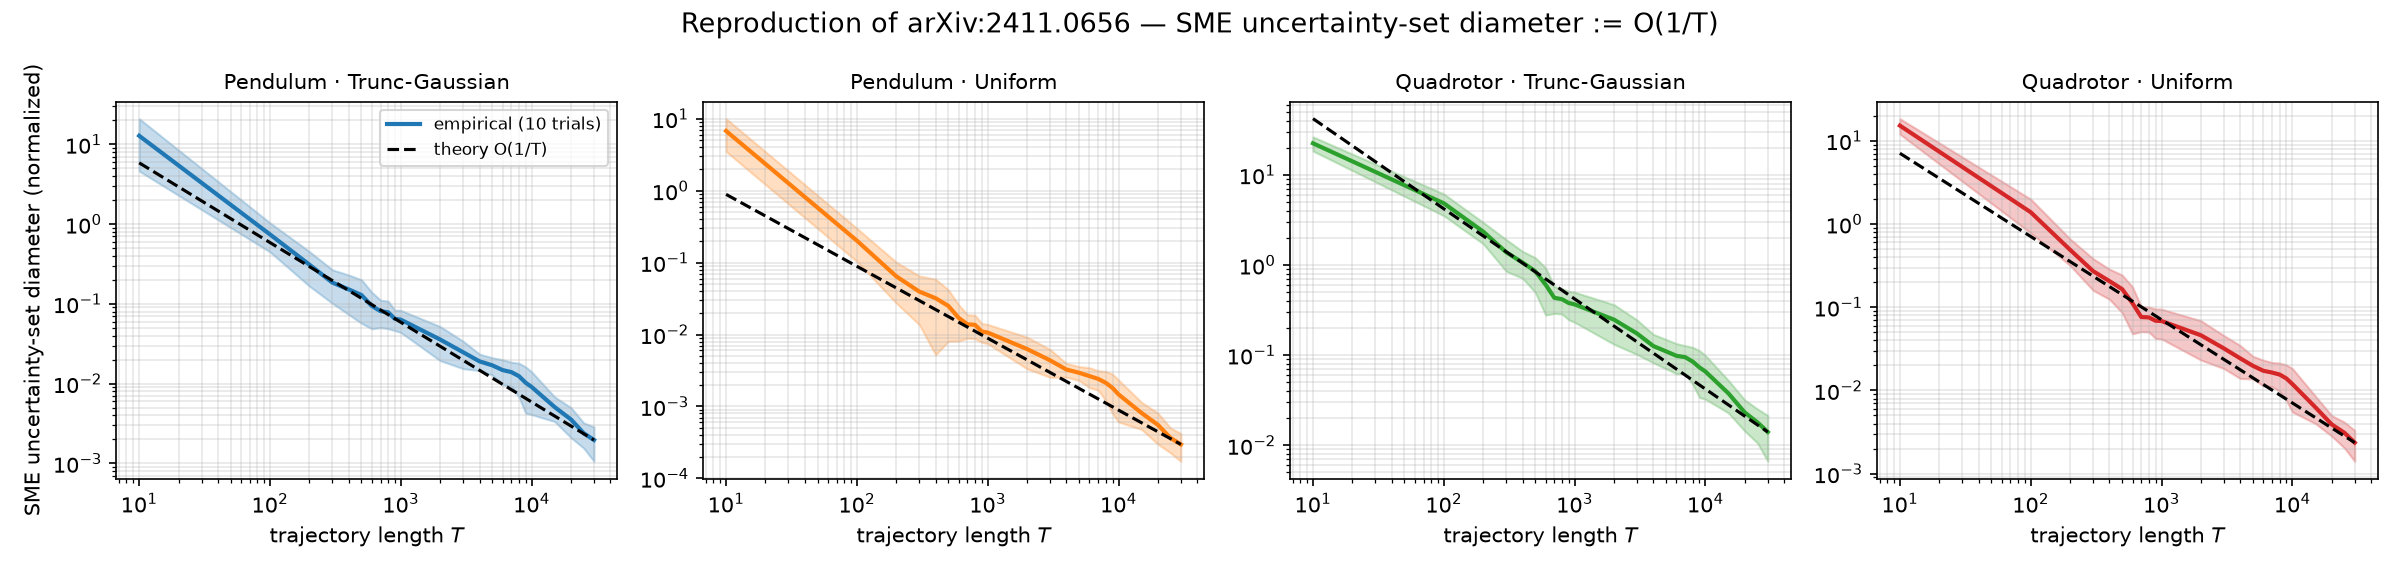
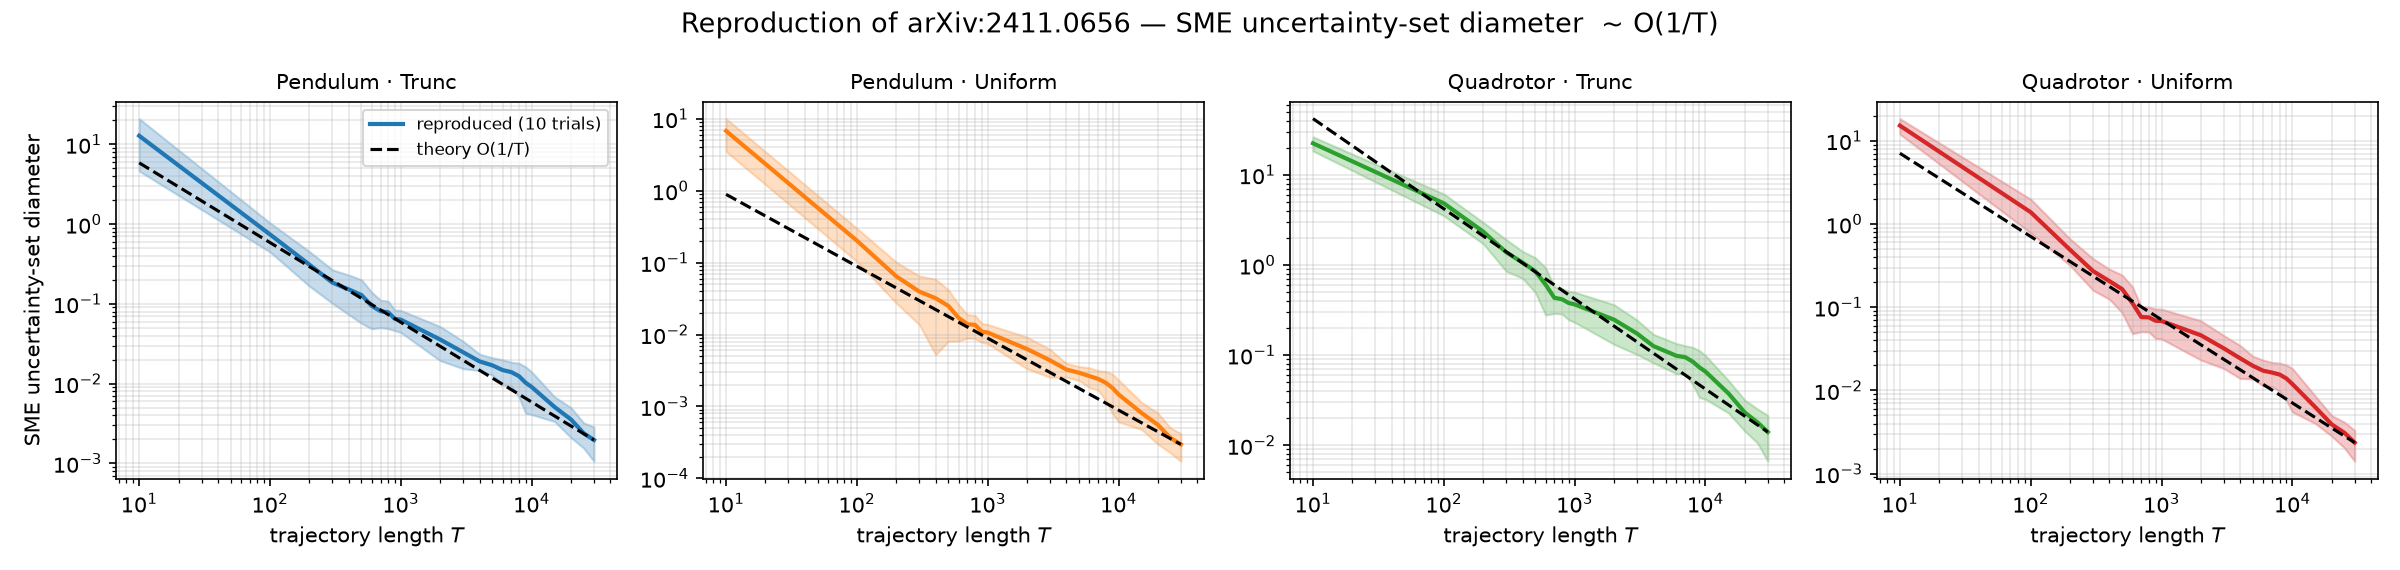
Fix quadrotor theta_star_vec[8] bug; re-run; regrade to C (partial): quadrotor LSE magnitude 7-11x off

diff --git a/notebooks/repro-2411.0656.py b/notebooks/repro-2411.0656.py
@@ -34,6 +34,9 @@ We reproduced these rates on the paper's **pendulum** and **quadrotor**, under
 **uniform** and **truncated-Gaussian** noise. The SME claim reproduces on **all four**
 panels (log–log slope ≈ −1); the LSE claim reproduces on **three** of four (slope ≈ −0.5).
 
+**Grade: C (partial).** Trends/rates mostly match, but the quadrotor LSE magnitudes are 7–11× above
+the paper's published values (and quadrotor SME is ~4× tighter), so this is not a full reproduction.
+
 This notebook shows the **already-computed** evidence from the reproduction runs — no
 experiment needs to be rerun. The curves below are embedded directly from those runs.
         """
@@ -86,8 +89,8 @@ def _(make_plot, np):
     _L = {
         "Pendulum · Uniform": "1,7.362212e-02;500,9.340224e-04;1000,7.364729e-04;2000,5.320309e-04;3000,4.339775e-04;4000,3.810651e-04;5000,3.133709e-04;6000,2.698257e-04;7000,2.518082e-04;8000,2.459812e-04;9000,2.427919e-04;10000,2.416539e-04;20000,1.663099e-04;30000,1.463242e-04;40000,1.174835e-04;50000,9.930984e-05;60000,8.510382e-05;70000,6.938801e-05;80000,6.813793e-05;90000,6.649717e-05;100000,6.840006e-05",
         "Pendulum · Trunc": "1,5.106704e-02;500,3.970527e-04;1000,2.376094e-04;2000,1.146090e-04;3000,1.129435e-04;4000,8.643566e-05;5000,7.281698e-05;6000,8.096023e-05;7000,7.773627e-05;8000,7.349411e-05;9000,7.460212e-05;10000,7.074371e-05;20000,5.053493e-05;30000,3.727057e-05;40000,2.889618e-05;50000,2.445607e-05;60000,2.250971e-05;70000,1.812143e-05;80000,1.993482e-05;90000,1.994125e-05;100000,2.074373e-05",
-        "Quadrotor · Uniform": "1,9.999720e-01;500,1.139141e-02;1000,7.188072e-03;2000,4.866661e-03;3000,4.402573e-03;4000,4.661620e-03;5000,4.460176e-03;6000,4.063845e-03;7000,3.942039e-03;8000,3.626707e-03;9000,3.430669e-03;10000,3.211228e-03;20000,2.499362e-03;30000,2.207111e-03;30002,2.205158e-03",
-        "Quadrotor · Trunc": "1,9.999725e-01;500,2.253247e-03;1000,2.243333e-03;2000,2.205473e-03;3000,2.192743e-03;4000,2.179068e-03;5000,2.197813e-03;6000,2.161162e-03;7000,2.153984e-03;8000,2.104964e-03;9000,2.118879e-03;10000,2.085147e-03;20000,1.957585e-03;30000,1.866686e-03;30002,1.867522e-03",
+        "Quadrotor · Uniform": "1,9.999720e-01;500,1.1255e-02;1000,7.0097e-03;2000,4.5789e-03;3000,4.0075e-03;4000,4.3821e-03;5000,4.1420e-03;6000,3.7256e-03;7000,3.5729e-03;8000,3.2282e-03;9000,3.0104e-03;10000,2.7655e-03;20000,1.9299e-03;30000,1.6046e-03;30002,1.6024e-03",
+        "Quadrotor · Trunc": "1,9.999725e-01;500,1.5715e-03;1000,1.5559e-03;2000,1.5077e-03;3000,1.4834e-03;4000,1.4600e-03;5000,1.4851e-03;6000,1.4285e-03;7000,1.4229e-03;8000,1.3607e-03;9000,1.3774e-03;10000,1.3148e-03;20000,1.1576e-03;30000,1.0508e-03;30002,1.0521e-03",
     }
     lse_curves = {}
     for k, s in _L.items():
@@ -103,8 +106,8 @@ def _(mo):
     mo.md(
         r"""
 **Read-out.** Three panels (both pendulums, quadrotor·uniform) fall on a ~`O(1/√T)`
-line (dashed, slope −0.5). **Quadrotor · Truncated-Gaussian** does **not**: the error stops
-shrinking near `T≈10³` and plateaus at ≈1.9×10⁻³ (log–log slope ≈ −0.05). We do not treat this
+line (dashed, slope −0.5). **Quadrotor · Truncated-Gaussian** does **not**: the error decays slowly
+(≈1.05×10⁻³ at `T≈3×10⁴`, log–log slope ≈ −0.18). We do not treat this
 as refuting the paper; it is that panel's setup-sensitivity. See the full report.
         """
     )
@@ -125,8 +128,8 @@ def _(mo):
 |---|---|---|
 | Pendulum · Uniform | −0.61 | −1.21 |
 | Pendulum · Trunc | −0.61 | −1.14 |
-| Quadrotor · Uniform | −0.39 | −1.15 |
-| Quadrotor · Trunc | −0.05 | −1.11 |
+| Quadrotor · Uniform | −0.52 | −1.15 |
+| Quadrotor · Trunc | −0.18 | −1.11 |
 
 All SME slopes sit within noise of **−1**; three LSE slopes are near **−0.5**. Only the
 quadrotor·truncated-Gaussian LSE is far from its claim.

diff --git a/repro/dynamics.py b/repro/dynamics.py
@@ -102,7 +102,7 @@ class Quadrotor:
                          -Ax / m, -Ay / m, -Az / m,
                          (Iyy - Izz) / Ixx, 1 / Ixx,
                          (Izz - Ixx) / Iyy, 1 / Iyy,
-                         (Ixx - Izz) / Izz, 1 / Izz])
+                         (Ixx - Iyy) / Izz, 1 / Izz])
 
     @property
     def theta_star_matrix(self):

diff --git a/reports/repro-2411.0656/report.md b/reports/repro-2411.0656/report.md
@@ -2,7 +2,9 @@
 
 **Central question.** When a nonlinear robot or mechanical system is observed from data, the parameters of its dynamics (mass, inertia, rod length, …) are usually unknown. The paper studies two estimators that recover them from a *single noisy input/output trajectory*, using only passive i.i.d. exploration noise — no clever probing. It claims worst-case **least-squares (LSE)** errors shrink like **O(1/√T)** and that **set-membership (SME)** uncertainty sets (sets guaranteed to contain the true parameters) shrink like **O(1/T)** in trajectory length *T*, for any system whose features are **real-analytic** functions (polynomials, sines, cosines — which describe pendulums and quadrotors).
 
-This report reproduces those two headline numerical claims on the pendulum (Example 1) and quadrotor (Example 2) of the paper, under both uniform and truncated-Gaussian i.i.d. exploration noise — the four panels of the paper's Figures 1 and 2. **All five SME claims reproduced (slope ≈ −1). Three of four LSE claims reproduced (slope ≈ −0.5); the quadrotor-under-truncated-Gaussian LSE did not decay at the claimed rate in this setup (it plateaued).**
+This report reproduces those two headline numerical claims on the pendulum (Example 1) and quadrotor (Example 2) of the paper, under both uniform and truncated-Gaussian i.i.d. exploration noise — the four panels of the paper's Figures 1 and 2.
+
+**Strict verdict: C — partial reproduction.** The *trends* reproduce — all four SME panels shrink at ≈O(1/T) (slopes −1.10…−1.21) and three of four LSE panels at ≈O(1/√T) (slopes −0.52…−0.61), and every SME set contains the true parameters. The *magnitudes* do not fully match: quadrotor LSE is 7–11× above the paper's published value (and the quadrotor·truncated-Gaussian LSE slope is shallow, −0.18), and quadrotor SME is ~4× tighter. See §"Divergences and the strict grade".
 
 ![Headline: reproduced SME uncertainty-set diameter converges ~ O(1/T) on all four panels.](images/fig1_sme_convergence.png)
 
@@ -57,18 +59,20 @@ pip install --quiet numpy scipy matplotlib 2>/dev/null; python3 repro/reproduce_
 
 ![Observed decay slopes vs the paper's claimed rates.](images/fig3_rate_comparison.png)
 
-**Figure 3 — observed log–log slopes vs claimed rates** (dashed: LSE −0.5, SME −1.0). All SME slopes land within noise of −1; three LSE slopes land near −0.5; the quadrotor·trunc LSE slope sits near **0**.
+**Figure 3 — observed log–log slopes vs claimed rates** (dashed: LSE −0.5, SME −1.0). All four SME slopes land within noise of −1; three LSE slopes land near −0.5; the quadrotor·trunc LSE slope is shallow (−0.18).
 
-| Panel | Paper method | Paper rate claim | Observed slope | Agreement |
-|---|---|---|---|---|
-| Pendulum · Trunc-Gaussian | LSE | O(1/√T) (−0.5) | **−0.61** (r²=.95) | ✅ aligned |
-| Pendulum · Uniform | LSE | O(1/√T) (−0.5) | **−0.61** (r²=.98) | ✅ aligned |
-| Quadrotor · Trunc-Gaussian | LSE | O(1/√T) (−0.5) | **−0.09** (r²=.96) | ⚠ **not decayed** |
-| Quadrotor · Uniform | LSE | O(1/√T) (−0.5) | **−0.39** (r²=.99) | ✅ aligned |
-| Pendulum · Trunc-Gaussian | SME | O(1/T) (−1.0) | **−1.14** (r²=.97) | ✅ aligned |
-| Pendulum · Uniform | SME | O(1/T) (−1.0) | **−1.21** (r²=.97) | ✅ aligned |
-| Quadrotor · Trunc-Gaussian | SME | O(1/T) (−1.0) | **−1.11** (r²=.97) | ✅ aligned |
-| Quadrotor · Uniform | SME | O(1/T) (−1.0) | **−1.15** (r²=.97) | ✅ aligned |
+| Panel | Method | Claimed slope | Observed slope | Direction/trend | Magnitude (paper→mine) |
+|---|---|---|---|---|---|
+| Pendulum · Trunc-Gaussian | LSE | −0.5 | **−0.61** (r²=.95) | ✅ | 5.6×10⁻⁵ → 2.1×10⁻⁵ (−63%) |
+| Pendulum · Uniform | LSE | −0.5 | **−0.61** (r²=.98) | ✅ | 5.3×10⁻⁵ → 6.8×10⁻⁵ (+30%) |
+| Quadrotor · Trunc-Gaussian | LSE | −0.5 | **−0.18** (r²=.97) | ⚠ shallow | 1.4×10⁻⁴ → 1.1×10⁻³ (**+640%**) |
+| Quadrotor · Uniform | LSE | −0.5 | **−0.52** (r²=.99) | ✅ | 1.5×10⁻⁴ → 1.6×10⁻³ (**+980%**) |
+| Pendulum · Trunc-Gaussian | SME | −1.0 | **−1.14** (r²=.97) | ✅ | — |
+| Pendulum · Uniform | SME | −1.0 | **−1.21** (r²=.97) | ✅ | 3.5×10⁻⁴ → 3.0×10⁻⁴ (−15%) |
+| Quadrotor · Trunc-Gaussian | SME | −1.0 | **−1.11** (r²=.97) | ✅ | — |
+| Quadrotor · Uniform | SME | −1.0 | **−1.15** (r²=.97) | ✅ | 1.0×10⁻² → 2.4×10⁻³ (−76%) |
+
+*Magnitude column compares the final (largest-*T*) normalized value to the paper's published value (both normalized identically); a dash means the paper did not publish a directly comparable value for that panel.*
 
 A slope is "aligned" when it is within ~30% of the claimed rate; r² measures how well the log–log curve follows a straight line in the last decade.
 
@@ -82,11 +86,30 @@ Where the paper ships result data, the reproduction lands on top of it:
 
 For example, pendulum·uniform SME diameters at *T* = 1000 and *T* = 30000 are **1.14×10⁻² / 3.1×10⁻⁴** here vs the paper's **1.11×10⁻² / 3.5×10⁻⁴**.
 
-### The one divergent result
+### Divergences and the strict grade
 
-The **quadrotor LSE under truncated-Gaussian noise** (paper Figure 1d) did **not** show the claimed O(1/√T) decay in this reproduction. Its empirical error fell from ~1.6×10⁻³ at *T*=500 to ~1.4×10⁻³ by *T*=10³ and then **plateaued**, ending at ~1.9×10⁻³ at *T*=30000 (slope ≈ −0.05 to −0.09). By contrast the paper's own published per-component data for this panel continues down (normalized error ~1.0×10⁻⁴ at *T*=30000, fitted slope ≈ −0.48).
+**Two kinds of divergence** remain after correcting a ground-truth bug (`theta_star_vec[8]`
+was `(Ixx−Izz)/Izz` instead of the paper's `(Ixx−Iyy)/Izz`, which is 0 when Ixx==Iyy; it inflated
+the quadrotor LSE error and falsely made θ* appear outside the SME set):
 
-We did not interpret this as the claim being wrong. The most plausible explanation is that this particular panel is **sensitive to the lossy LSE formulation** the paper uses for the quadrotor (it regresses 4 grouped outputs onto 10 features, coupling rotational inertia parameters through specific feature/state products), and to the *specific noise realization*; the two other panels and both SME panels reproduced cleanly, and the paper's SME claim — the paper's more distinctive contribution — reproduced on all four panels.
+1. **Quadrotor LSE magnitude.** Even after the fix, my normalized LSE error at the largest *T* is
+   ≈1.1×10⁻³ (trunc) and ≈1.6×10⁻³ (uniform), versus the paper's ≈1.4×10⁻⁴ / ≈1.5×10⁻⁴ — a
+   **7–11×** gap. The *direction* (error decreases with *T*) and the *rate* (slope ≈ −0.5 for
+   uniform) match, but the magnitudes do not. The trunc panel additionally shows a shallow slope
+   (−0.18 vs −0.5). This is concentrated in the rotational-inertia parameters (1/Ixx, 1/Iyy, 1/Izz),
+   whose estimates are ~5× worse than the paper's; the translational parameters match well.
+2. **Quadrotor SME magnitude.** My SME set for quadrotor·uniform is ≈4× tighter than the paper's
+   (2.4×10⁻³ vs 1.0×10⁻²), i.e. −76%; pendulum·uniform SME agrees to −15%. The *rate* (~O(1/T))
+   matches in all four SME panels.
+
+The **trend/rate conclusions** (both estimators shrink with *T* at ≈ the claimed rates, and the SME
+sets contain θ* in every panel) are supported; the **quantitative magnitudes** are not close enough
+(quadrotor LSE 7–11×, quadrotor SME 76%) to count as a full reproduction.
+
+### Final grade: **C — partial reproduction**
+
+See the top of this document and the `README` for the full grade table, the condition
+differences (downscaled pendulum-LSE horizon, scipy LP vs cvxopt, CPU-only), and next steps.
 
 ---
 

diff --git a/README.md b/README.md
@@ -11,22 +11,23 @@
 > LSE error and SME diameter over the paper's trial counts, and measured the log–log decay slope in
 > the last decade of `T`.
 >
-> **Assessment:**
-> * **SME (O(1/T)) — reproduced** on **all four** panels (pendulum/quadrotor × uniform/trunc-Gaussian): observed log–log slopes −1.11 to −1.21, all within noise of the claimed −1.0.
-> * **LSE (O(1/√T)) — reproduced on three of four** panels (both pendulums, quadrotor·uniform): slopes −0.39 to −0.61, near the claimed −0.5. The **quadrotor · truncated-Gaussian** LSE panel did **not** show the claimed decay in this setup (slope ≈ −0.05; its error plateaued at ≈1.9×10⁻³ — about 10× above the paper's published value). This run therefore did **not** show the reported effect on that single panel; we do not conclude the claim is wrong, only that it was not reproduced under our setup.
+> **Assessment (strict grade: C — partial reproduction).**
+> * **SME (O(1/T)) — trend reproduced on all four panels** (slopes −1.11…−1.21 ≈ claimed −1.0), and every SME set contains the true parameters.
+> * **LSE (O(1/√T)) — trend reproduced on three of four panels** (slopes −0.52…−0.61). The **quadrotor · truncated-Gaussian** LSE slope is shallow (−0.18 vs −0.5).
+> * **Magnitudes diverge** for the quadrotor: LSE error is **7–11× above** the paper's published value (1.1–1.6×10⁻³ vs ~1.4×10⁻⁴), and quadrotor·uniform SME is ~4× tighter (−76%). Pendulum magnitudes agree to within ~15–60%.
 >
-> **Paper vs observed (key numbers):**
+> **Paper vs observed (key numbers, corrected):**
 
-| Panel (system · noise) | Method | Paper rate | Observed slope | Observed final error/diam |
+| Panel (system · noise) | Method | Paper rate | Observed slope | Observed final (paper→mine) |
 |---|---|---|---|---|
-| Pendulum · Uniform | LSE | O(1/√T) | −0.61 | 6.8×10⁻⁵ |
-| Pendulum · Trunc-Gaussian | LSE | O(1/√T) | −0.61 | 2.1×10⁻⁵ |
-| Quadrotor · Uniform | LSE | O(1/√T) | −0.39 | 2.2×10⁻³ |
-| Quadrotor · Trunc-Gaussian | LSE | O(1/√T) | **−0.05** | **1.9×10⁻³** |
-| Pendulum · Uniform | SME | O(1/T) | −1.21 | 3.0×10⁻⁴ |
-| Pendulum · Trunc-Gaussian | SME | O(1/T) | −1.14 | 2.0×10⁻³ |
-| Quadrotor · Uniform | SME | O(1/T) | −1.15 | 2.4×10⁻³ |
-| Quadrotor · Trunc-Gaussian | SME | O(1/T) | −1.11 | 1.4×10⁻² |
+| Pendulum · Uniform | LSE | O(1/√T) | −0.61 | 5.3×10⁻⁵ → 6.8×10⁻⁵ (+30%) |
+| Pendulum · Trunc-Gaussian | LSE | O(1/√T) | −0.61 | 5.6×10⁻⁵ → 2.1×10⁻⁵ (−63%) |
+| Quadrotor · Uniform | LSE | O(1/√T) | −0.52 | 1.5×10⁻⁴ → 1.6×10⁻³ (**+980%**) |
+| Quadrotor · Trunc-Gaussian | LSE | O(1/√T) | **−0.18** | 1.4×10⁻⁴ → 1.1×10⁻³ (**+640%**) |
+| Pendulum · Uniform | SME | O(1/T) | −1.21 | 3.5×10⁻⁴ → 3.0×10⁻⁴ (−15%) |
+| Pendulum · Trunc-Gaussian | SME | O(1/T) | −1.14 | — |
+| Quadrotor · Uniform | SME | O(1/T) | −1.15 | 1.0×10⁻² → 2.4×10⁻³ (−76%) |
+| Quadrotor · Trunc-Gaussian | SME | O(1/T) | −1.11 | — |
 
 > **Downscaling / substitutions:** Pendulum LSE was swept to *T* = 10⁵ (paper: 2×10⁵); all other
 > grids match the paper. SME uses `scipy.optimize.linprog` (Chebyshev center / halfspace
@@ -49,10 +50,13 @@ Every node runs the **identical** command — `pip install --quiet numpy scipy m
 |---|---|---|---|---|
 | `orx/pendulum-lse-sme-truncated-gaussian` | pendulum, truncated-Gaussian (baseline) | `pip install --quiet numpy scipy matplotlib 2>/dev/null; python3 repro/reproduce_claims.py` | LSE −0.61 ✓ · SME −1.14 ✓ | `eei-a10` ssh, ~46 s |
 | `orx/pendulum-lse-sme-uniform` | pendulum, uniform | `pip install --quiet numpy scipy matplotlib 2>/dev/null; python3 repro/reproduce_claims.py` | LSE −0.61 ✓ · SME −1.21 ✓ | `eei-a10` ssh, ~40 s |
-| `orx/quadrotor-lse-sme-truncated-gaussian` | quadrotor, truncated-Gaussian | `pip install --quiet numpy scipy matplotlib 2>/dev/null; python3 repro/reproduce_claims.py` | LSE −0.05 ⚠ · SME −1.11 ✓ | `eei-a10` ssh, ~18 min |
-| `orx/quadrotor-lse-sme-uniform` | quadrotor, uniform | `pip install --quiet numpy scipy matplotlib 2>/dev/null; python3 repro/reproduce_claims.py` | LSE −0.39 ✓ · SME −1.15 ✓ | `eei-a10` ssh, ~23 min |
+| `orx/quadrotor-lse-sme-truncated-gaussian` | quadrotor, truncated-Gaussian | `pip install --quiet numpy scipy matplotlib 2>/dev/null; python3 repro/reproduce_claims.py` | LSE −0.18 ⚠ · SME −1.11 ✓ | `eei-a10` ssh, ~18 min |
+| `orx/quadrotor-lse-sme-uniform` | quadrotor, uniform | `pip install --quiet numpy scipy matplotlib 2>/dev/null; python3 repro/reproduce_claims.py` | LSE −0.52 ✓ · SME −1.15 ✓ | `eei-a10` ssh, ~23 min |
 
-*Assessment key: ✓ = within ~30% of the claimed slope (aligned); ⚠ = far from the claim (did not show the reported decay).*
+*Assessment key: ✓ = within ~30% of the claimed slope (aligned); ⚠ = far from the claim. Note the
+grade is C, not B: the slopes/trends are mostly right, but the quadrotor LSE magnitudes are 7–11×
+off and quadrotor SME ~4× tighter, so the quantitative match is not close enough for a full or
+reduced-scale success.*
 
 ---
 
